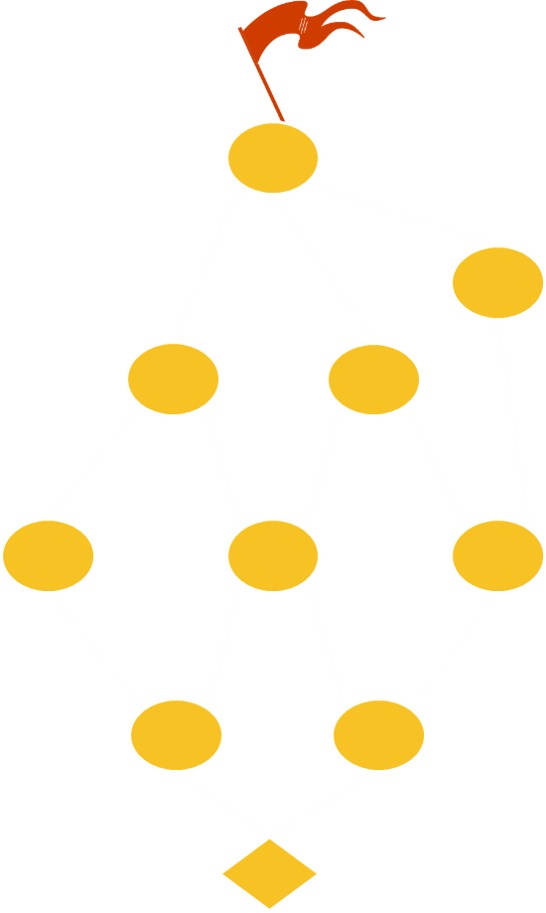
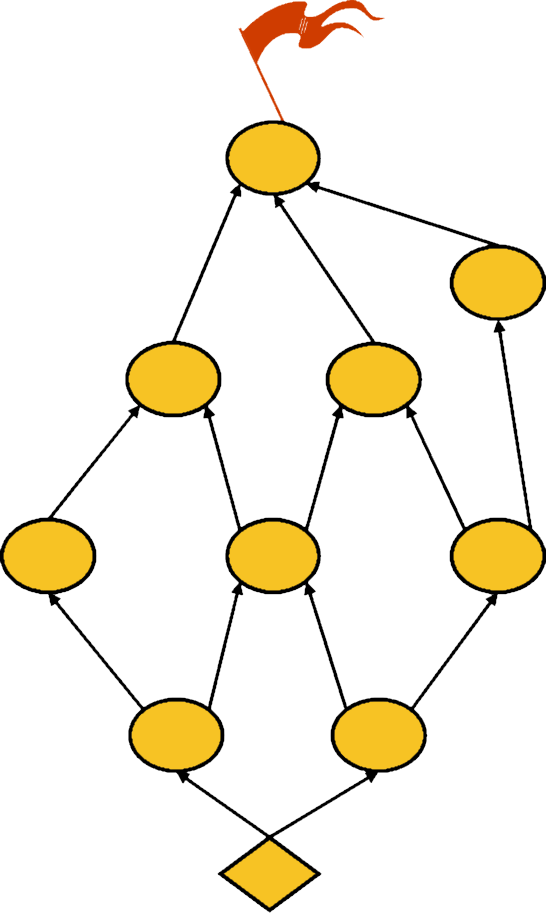
GitBook: [master] 6 pages and 2 assets modified

diff --git a/the-process/4.-identify-the-milestones.md b/the-process/4.-identify-the-milestones.md
@@ -6,7 +6,13 @@ For each step define what makes it “complete” or “done”
 
 For each step define the metrics that will allow tracking towards completion
 
-Pirate Metrics
+Pirate Metrics \(see [https://www.slideshare.net/dmc500hats/startup-metrics-for-pirates-long-version](https://www.slideshare.net/dmc500hats/startup-metrics-for-pirates-long-version)\) 
+
+Update the back of your Munro Cards!
+
+![](../.gitbook/assets/card2.png)
+
+What are the metrics that you would need to track to ensure that you were on the “right” path?
 
 * Awareness
 * Acquisition
@@ -14,8 +20,12 @@ Pirate Metrics
 * Revenue
 * Retention
 * Referral
-
-Update the back of your Munro Cards!
+* Awareness
+* Acquisition
+* Activation \(Conversion\)
+* Revenue
+* Retention
+* Referral
 
 Metrics
 
@@ -25,11 +35,12 @@ Acceptance Criteria
 
 Start your RAIDS
 
-![](../.gitbook/assets/card2.png)
-
-What are the metrics that you would need to track to ensure that you were on the “right” path?
-
 What makes it “complete” or “done”?
+
+* Metrics
+* Definition of Done
+* Acceptance Criteria
+* Start your RAIDS
 
 ### Learning Milestones
 

diff --git a/the-process/7.-brainstorm-alternative-options.md b/the-process/7.-brainstorm-alternative-options.md
@@ -6,7 +6,12 @@ description: >-
 
 # 7. Brainstorm alternative options
 
-Identify pivot or decision points where you would be able to make a choice or change direction
+For your current piece of work, think about the alternative approaches you could take and why you could take them.
+
+* Identify pivot or decision points where you would be able to make a choice or change direction
+* Identify the options you would have at that point
+* Identify the information you would need to be able to make the choice well
+* Ensure that your key steps includes the generation of that information
 
 Identify the options you would have at that point
 

diff --git a/the-process/8.-waypoint.md b/the-process/8.-waypoint.md
@@ -4,15 +4,17 @@ description: >-
   stopping point or point at which course is changed
 ---
 
-# 8. Waypoint
-
-When can we place a waypoint? 
+# 8. Way-points
 
 What would be your decision points?
 
 What information would you need to be able to make these decisions well?
 
+* When can we place a way-point? 
+* What would be your decision points?
+* What information would you need to be able to make these decisions well?
 
+A way-point is an intermediate point or place on a route or line of travel, a stopping point or point at which course is changed.
 
 
 

diff --git a/the-process/6.-devise-a-route.md b/the-process/6.-devise-a-route.md
@@ -10,5 +10,10 @@ Then go to the bottom and set up the current state.
 
 Ask “Which initiative can help us move from here to the nearest goal?” – repeat
 
-![](../.gitbook/assets/routes.png)
+* Start by placing your goal at the top.
+* Place Sub-Goals under main goal
+* Then go to the bottom and set up the current state.
+* Ask “Which initiative can help us move from here to the nearest goal?” – repeat
+
+![A Munro Map taking shape](../.gitbook/assets/routes.png)
 

diff --git a/the-mechanics/the-now-house.md b/the-mechanics/the-now-house.md
@@ -6,3 +6,7 @@ description: The "Now House" or "Base Camp" is our current position.
 
 The "Now House" or "Base Camp" is our current position. To create a plan you first need to know exactly what has already been done and how far you are from obtaining your goal. 
 
+![The Now House](../.gitbook/assets/the_now_house.png)
+
+The Now House represents the starting point or base camp of the journey. 
+

diff --git a/SUMMARY.md b/SUMMARY.md
@@ -29,7 +29,7 @@
 * [5. Prioritise](the-process/5.-prioritise.md)
 * [6. Devise a route](the-process/6.-devise-a-route.md)
 * [7. Brainstorm alternative options](the-process/7.-brainstorm-alternative-options.md)
-* [8. Waypoint](the-process/8.-waypoint.md)
+* [8. Way-points](the-process/8.-waypoint.md)
 
 ## Examples
 
